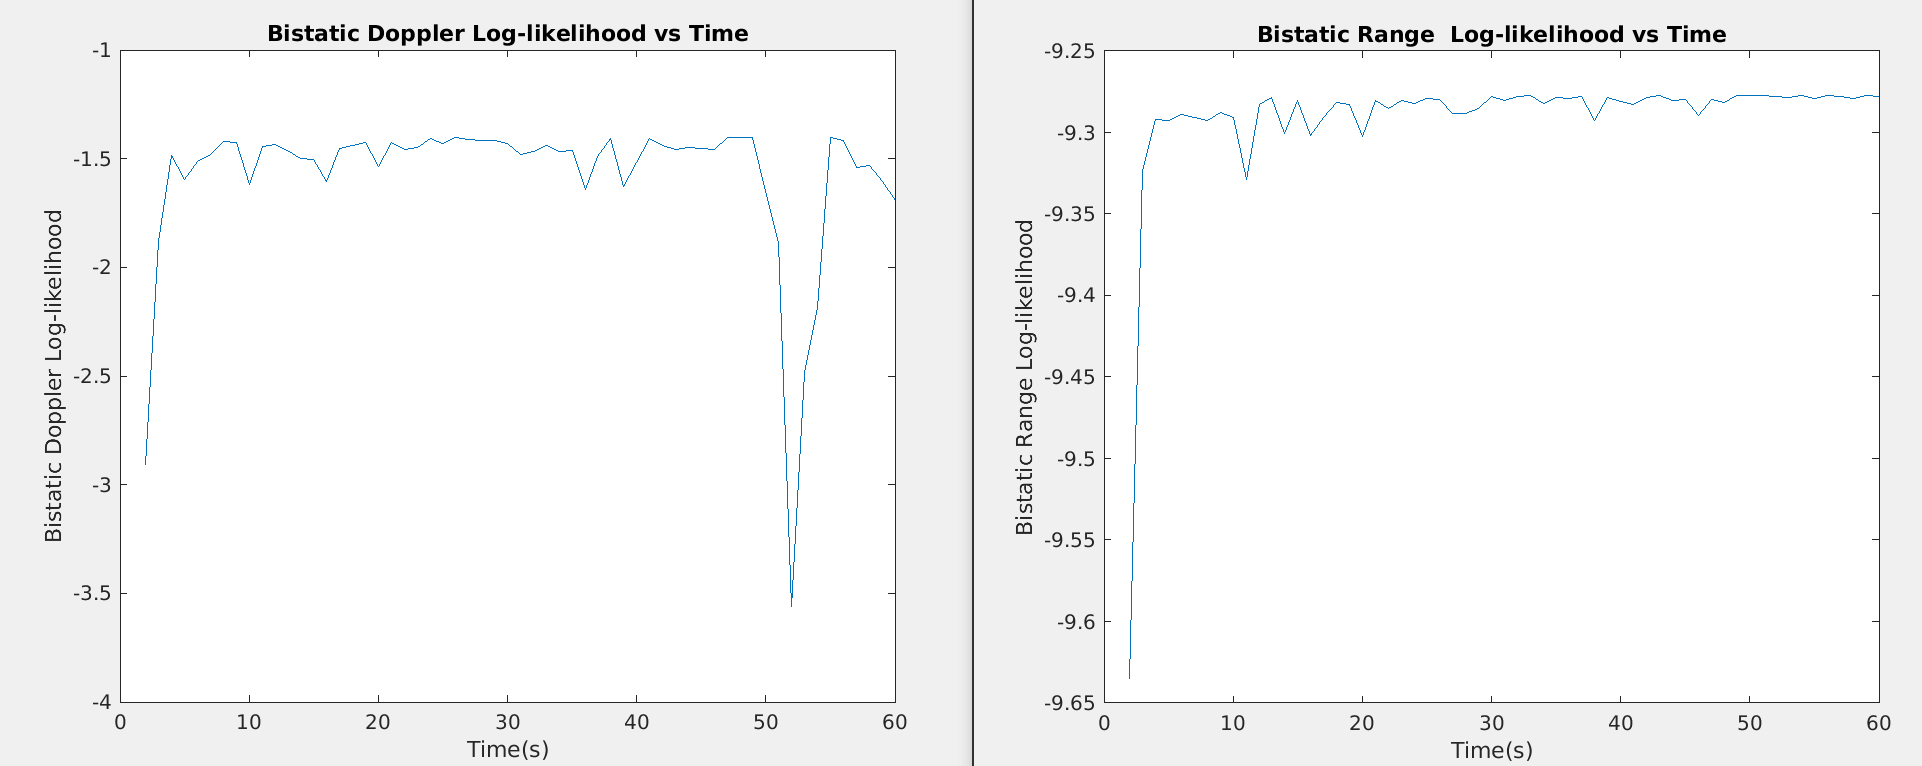
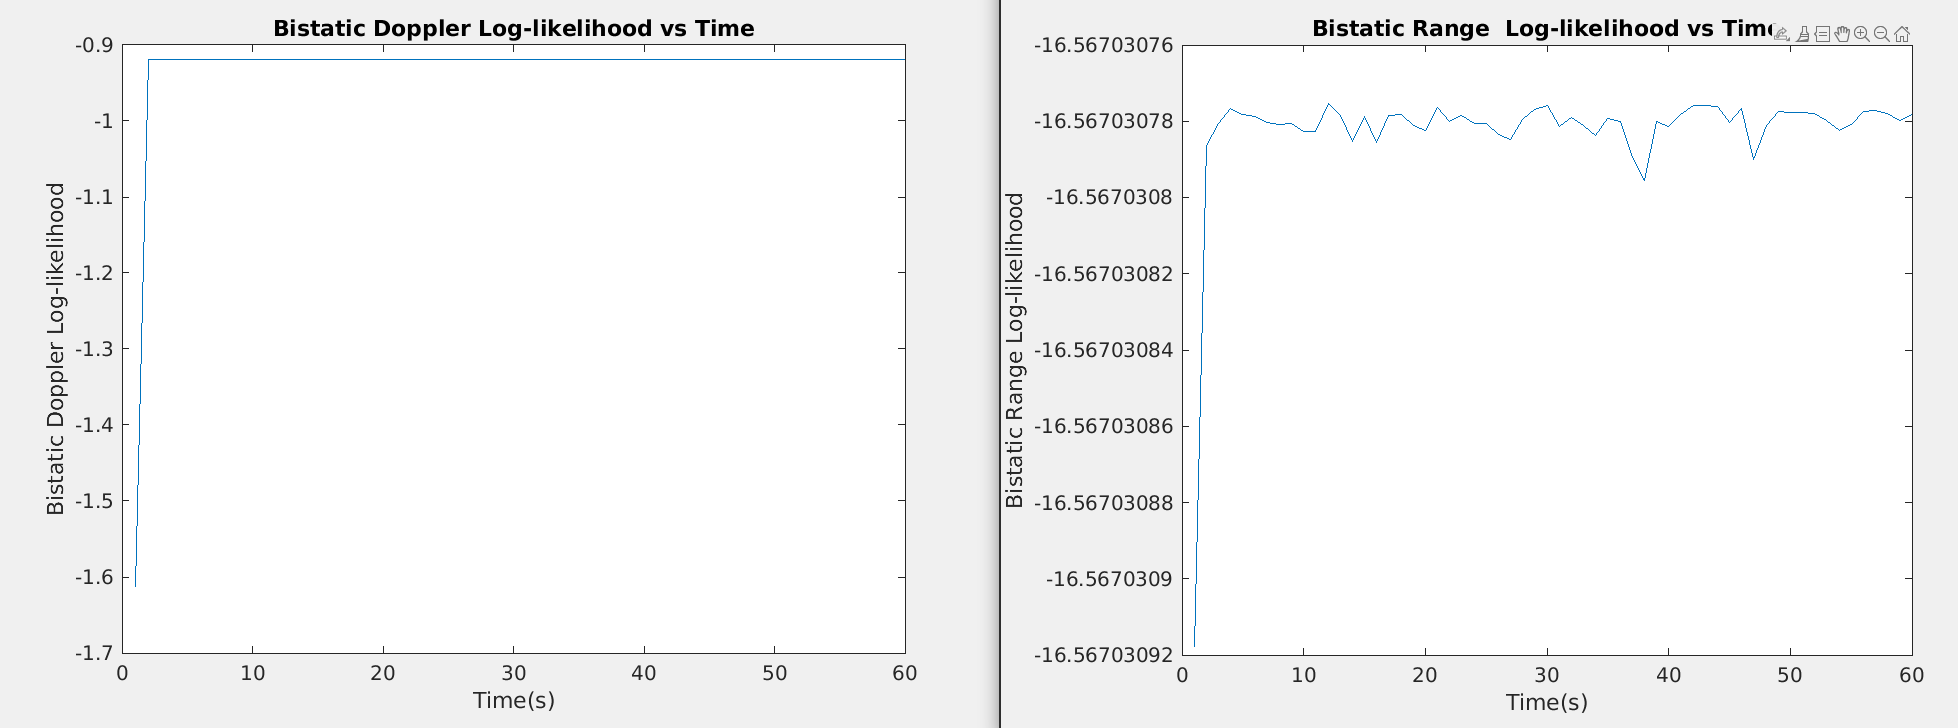
Changed Transition model to Near Constant Velocity

diff --git a/TrackingFilter-KalmanFilter/kalmanFilter.m b/TrackingFilter-KalmanFilter/kalmanFilter.m
@@ -1,7 +1,7 @@
 classdef kalmanFilter
 
     properties
-        dt,U,X,F,B,H,Q,R,P,S,coeff,measured_x,measured_y,std_acc;
+        dt,U,X,F,A,H,Q,R,P,S,coeff,measured_x,measured_y,std_acc,k_d;
     end
     
     methods
@@ -12,86 +12,74 @@ classdef kalmanFilter
             % dt : smapling time
             % x_std_meas : standard deviation of the measurement in the x-direction
             
-            
-            %Control Input Variables
-            %obj.U = [u_x;
-            %         u_y];
-    
+        
             %Initial State
             obj.X= X_initial;
                 
             %Update Interval
             obj.dt = dt;
 
+            %wave number c/f
+            obj.k_d = -299792458/94e6; 
+
             %State transition matrix
-            obj.F = [1,dt,(1/2)*dt^2;
-                     0, 1, dt;
-                     0, 0, 1;];
+            obj.F = [1, obj.k_d*dt;
+                     0, 1];
 
-
-            %The control input matrix B
-            obj.B = [0,0;
-                     0,0;
-                     0,0;];
+            %Transition Matrix for P(Error-Covariance)
+            obj.A = [1, dt;
+                     0, 1];
 
             %Measurement Mapping Matrix 
-            obj.H = [1,0,0;
-                     0,1,0;];
+            obj.H = [1,0;
+                     0,1;];
 
             %Process Noise Covariance Matrix
-            obj.Q = [2500, 0, 0;
-                    0,1, 0;
-                    0, 0,0.1];
+            obj.Q = [(dt^4)/4,(dt^3)/2;
+                    (dt^3)/2,dt^2]*std_acc;
             
-            %obj.Q = [(dt^4)/4, (dt^3)/2, (dt^2)/2;
-            %       (dt^3)/2, dt^2, dt;
-            %         (dt^2)/2, dt, 1;]*100;
-
-            %obj.Q(1:3,1:3) = obj.Q(1:3,1:3) * std_acc(1)^2;
-
-            %Initial Measurement Noise Covariance Matrix
             %Standard deviation of measurement in doppler shift and delay
+            %Measurement Error covariance matrix
             obj.R = [x_std_meas^2,0;
                      0,y_std_meas^2];
 
+            %Initial Innovation Error Matrix
             obj.S = [0,0;
                      0,0];
-            %Initial covariance Matrix
-            %High estimate uncertainty
-            obj.P = eye(size(obj.F,2));
+
+            obj.P = eye(size(obj.A,2));
 
         end
         
         function [X_pred,KF_obj1] = predict(obj)
-            %Prediction stage
+            %PREDICTION STAGE
             
-            %PREDICT NEXT STATE
-            %x_k = A*x_(k-1) + B*u_(k-1)
+            %x_k = F*x_(k-1)
             obj.X = obj.F*obj.X ;
-                        
-            %COVARIANCE UPDATE
+                       
             %P= A*P*A' + Q             
-            obj.P = (obj.F * obj.P) * obj.F.' + obj.Q;
+            obj.P = obj.A * obj.P * obj.A.' + obj.Q;
 
             X_pred = obj.X;
             KF_obj1  = obj;
         end
         
         function [X_est,KF_obj2] = update(obj,z)
-            %Update stage
-
-            %COMPUTE KALMAN GAIN 
+            %UPDATE STAGE
             
-            %K = P * H'* inv(H*P*H'+R)
             %S = H*P*H'+ R - Total Error - Innovation Covariance Matrix
             obj.S = obj.H * obj.P * obj.H.' + obj.R;
-            K = (obj.P * obj.H.') / obj.S;
-            %GET KALMAN ESTIMATE 
+
+            %KALMAN GAIN
+            %K = P * H'* inv(H*P*H'+R)
+            K = obj.P * obj.H.'*obj.S^(-1);
+
+            %GET ESTIMATE 
             obj.X = obj.X + K * (z-obj.H * obj.X);
             
             I = eye(size(obj.H,2));
 
-            %Update Error Covariance matrix
+            %UPDATE ERROR COVARIANCE MATRIX
             obj.P = (I - (K * obj.H)) * obj.P;
             
             X_est = obj.X;

diff --git a/multiTargetTracking/track.m b/multiTargetTracking/track.m
@@ -29,9 +29,9 @@ classdef track
             switch filterType
                 case 1
                     disp("Initializing Kalman Filter");
-                    std_meas=[sqrt(1000),sqrt(0.1)];                      %Standard Deviation of the measurements in the x and y
-                    std_acc=[5,0];                                  %Standard Deviation of the acceleration in ms^2
-                    KF_object = kalmanFilter(dt,std_acc,std_meas(1),std_meas(2),[x_initial(1);x_initial(2);0;]);
+                    std_meas=[2500,0.01];                      %Standard Deviation of the measurements in the x and y
+                    std_acc=1;                                  %Standard Deviation of the acceleration in ms^2
+                    KF_object = kalmanFilter(dt,std_acc,std_meas(1),std_meas(2),[x_initial(1);x_initial(2);]);
                     obj.trackingFilterObject = KF_object;
                                    
                 case 2
@@ -44,7 +44,7 @@ classdef track
                     PF_object = particleFilter(dt,[std_acc(1),std_acc(2)],std_meas,[x_initial(1);x_initial(2);0;],N);
                     obj.trackingFilterObject = PF_object;
                 
-                case 3
+                case 31
                     std_acc=[1e-3,10];                 %Standard Deviation of the acceleration in ms^2
                     std_meas=[25,0.1];                  %Standard Deviation of the measurements in the x and y
                     max_iterations=100;
